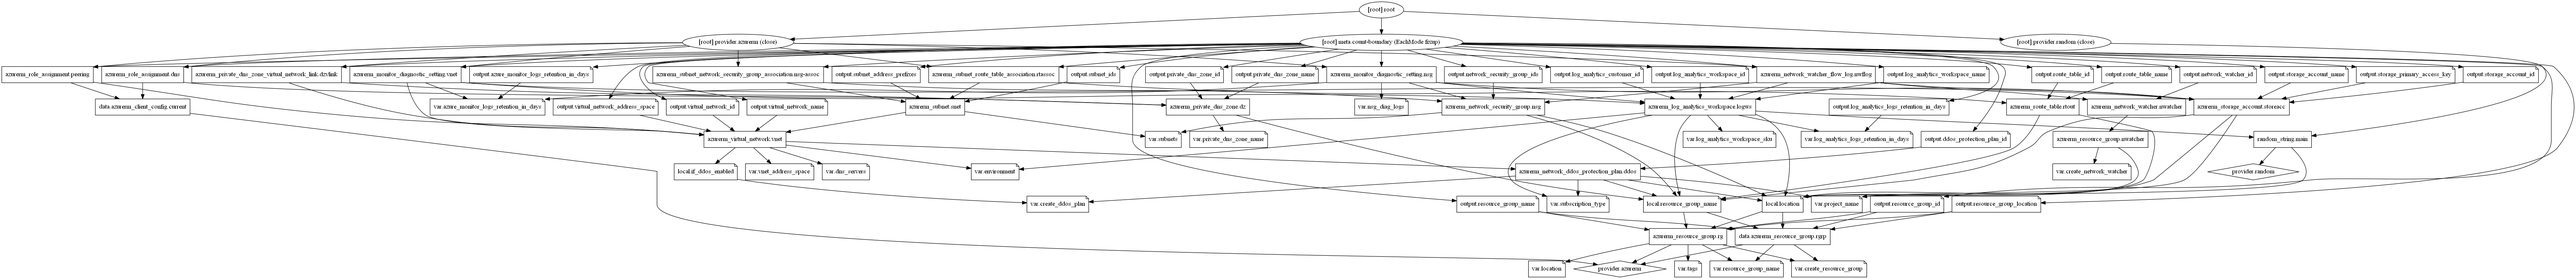
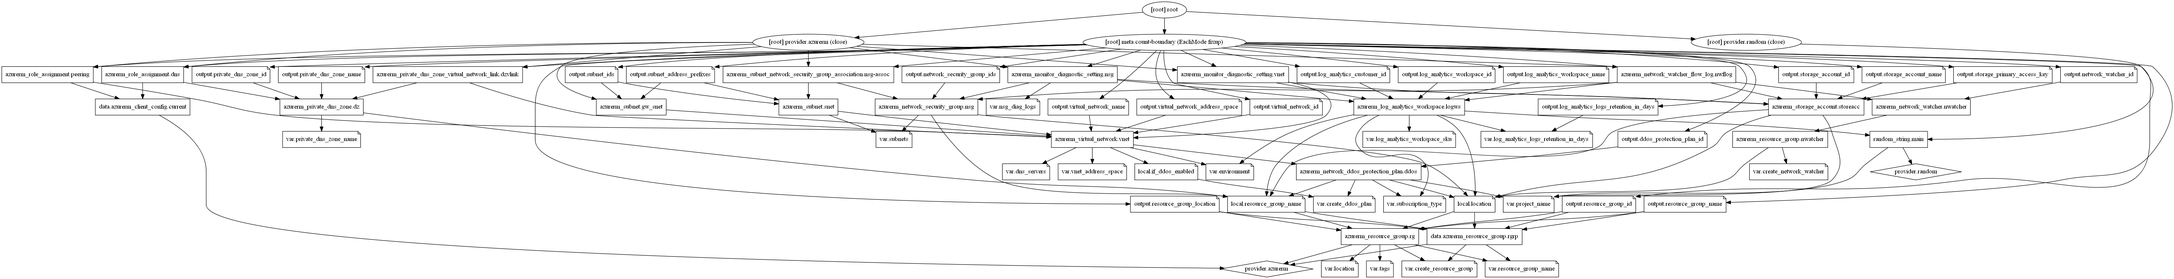
update module

diff --git a/README.md b/README.md
@@ -56,23 +56,17 @@ module "vnet-hub" {
   # Log Retention in days - Possible values range between 30 and 730
   log_analytics_workspace_sku          = "PerGB2018"
   log_analytics_logs_retention_in_days = 30
-  azure_monitor_logs_retention_in_days = 30
 
   # Adding Standard DDoS Plan, and custom DNS servers (Optional)
   dns_servers = []
 
   # Multiple Subnets, Service delegation, Service Endpoints, Network security groups
   # These are default subnets with required configuration, check README.md for more details
-  # Route_table and NSG association to be added automatically for all subnets listed here.
+  # NSG association to be added automatically for all subnets listed here.
+  # First two address ranges from VNet Address space reserved for Gateway And Firewall Subnets.
+  # ex.: For 10.1.0.0/16 address space, usable address range start from 10.1.2.0/24 for all subnets.
   # subnet name will be set as per Azure naming convention by defaut. expected value here is: <App or project name>
   subnets = {
-
-    gw_subnet = {
-      subnet_name           = "gateway"
-      subnet_address_prefix = ["10.1.1.0/24"]
-      service_endpoints     = ["Microsoft.Storage"]
-    }
-
     mgnt_subnet = {
       subnet_name           = "management"
       subnet_address_prefix = ["10.1.2.0/24"]
@@ -135,7 +129,7 @@ By default, this module will create a DDoS Protection Plan. You can enable/disab
 
 ## Custom DNS servers
 
-This is an optional feature and only applicable if you are using your own DNS servers superseding default DNS services provided by Azure. Set the argument `dns_servers = ["4.4.4.4"]` to enable this option. For multiple DNS servers, set the argument `dns_servers = ["4.4.4.4", "8.8.8.8"]`
+This is an optional feature and only applicable if you are using your own DNS servers superseding default DNS services provided by Azure.Set the argument `dns_servers = ["4.4.4.4"]` to enable this option. For multiple DNS servers, set the argument `dns_servers = ["4.4.4.4", "8.8.8.8"]`
 
 ## Subnets
 
@@ -283,7 +277,7 @@ module "vnet-hub" {
   source = "github.com/tietoevry-infra-as-code/terraform-azurerm-caf-vnet-hub?ref=v1.0.0"
 
   # .... omitted
-
+  
   # Multiple Subnets, Service delegation, Service Endpoints
   subnets = {
     mgnt_subnet = {
@@ -394,7 +388,6 @@ Name | Description | Type | Default
 `private_dns_zone_name`|The name of the Private DNS Zone. Must be a valid domain name to enable the resource creation|string|`""`
 `log_analytics_workspace_sku`|The SKU of the Log Analytics Workspace. Possible values are `Free`, `PerNode`, `Premium`, `Standard`, `Standalone`, `Unlimited`, and `PerGB2018`|string|`PerGB2018`
 `log_analytics_logs_retention_in_days`|The log analytics workspace data retention in days. Possible values range between `30` and `730`|number|`30`
-`azure_monitor_logs_retention_in_days`|The Azure Monitoring data retention in days|number|`30`
 `Tags`|A map of tags to add to all resources|map|`{}`
 
 ## Outputs
@@ -423,7 +416,6 @@ Name | Description | Type | Default
 `log_analytics_workspace_id`|The resource id of the Log Analytics Workspace
 `log_analytics_customer_id`|The Workspace (or Customer) ID for the Log Analytics Workspace.
 `log_analytics_logs_retention_in_days`|The workspace data retention in days. Possible values range between 30 and 730
-`azure_monitor_logs_retention_in_days`|The Azure Monitoring data retention in days
 
 ## Resource Graph
 

diff --git a/examples/README.md b/examples/README.md
@@ -31,23 +31,17 @@ module "vnet-hub" {
   # Log Retention in days - Possible values range between 30 and 730
   log_analytics_workspace_sku          = "PerGB2018"
   log_analytics_logs_retention_in_days = 30
-  azure_monitor_logs_retention_in_days = 30
 
   # Adding Standard DDoS Plan, and custom DNS servers (Optional)
   dns_servers = []
 
   # Multiple Subnets, Service delegation, Service Endpoints, Network security groups
   # These are default subnets with required configuration, check README.md for more details
-  # Route_table and NSG association to be added automatically for all subnets listed here.
+  # NSG association to be added automatically for all subnets listed here.
+  # First two address ranges from VNet Address space reserved for Gateway And Firewall Subnets.
+  # ex.: For 10.1.0.0/16 address space, usable address range start from 10.1.2.0/24 for all subnets.
   # subnet name will be set as per Azure naming convention by defaut. expected value here is: <App or project name>
   subnets = {
-
-    gw_subnet = {
-      subnet_name           = "gateway"
-      subnet_address_prefix = ["10.1.1.0/24"]
-      service_endpoints     = ["Microsoft.Storage"]
-    }
-
     mgnt_subnet = {
       subnet_name           = "management"
       subnet_address_prefix = ["10.1.2.0/24"]
@@ -136,4 +130,3 @@ Run `terraform destroy` when you don't need these resources.
 `log_analytics_workspace_id`|The resource id of the Log Analytics Workspace
 `log_analytics_customer_id`|The Workspace (or Customer) ID for the Log Analytics Workspace.
 `log_analytics_logs_retention_in_days`|The workspace data retention in days. Possible values range between 30 and 730
-`azure_monitor_logs_retention_in_days`|The Azure Monitoring data retention in days
